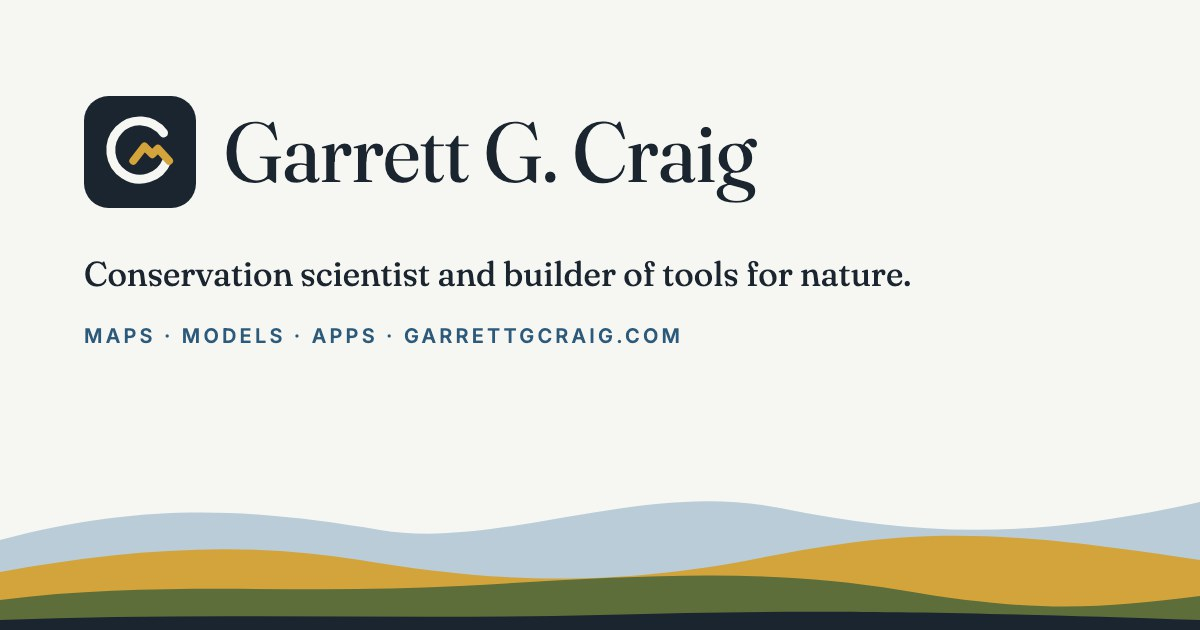
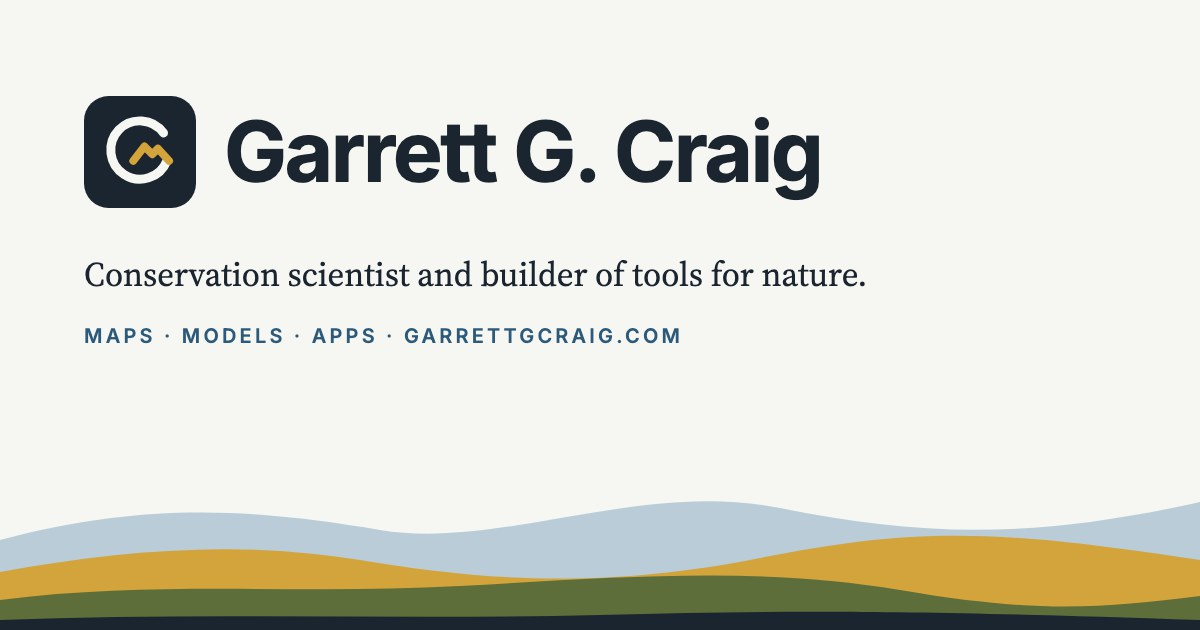
Unlist the brand page and switch to sans headings, serif body
brand.html drops out of the nav and sitemap and is marked noindex.
Headings and UI move to Inter; body text moves to Source Serif 4.
The brand guide and share card follow the new pairing.

Changed region(s): [[0.185, 0.181, 0.7092, 0.3317], [0.0617, 0.3921, 0.7708, 0.4524]]

diff --git a/brand.html b/brand.html
@@ -3,6 +3,7 @@
 <head>
 	<meta charset="utf-8" />
 	<meta name="viewport" content="width=device-width, initial-scale=1" />
+	<meta name="robots" content="noindex, nofollow" />
 		<!-- SEO -->
 		<meta name="description" content="The brand guide for garrettgcraig.com: palette, type, mark, components, chart colors, voice, and photo style." />
 		<link rel="canonical" href="https://garrettgcraig.com/brand" />
@@ -34,14 +35,14 @@
 			-webkit-font-smoothing: antialiased;
 		}
 		a { color: var(--color-link); text-underline-offset: 0.18em; }
-		h1, h2, h3 { font-family: var(--font-display); font-weight: 500; line-height: var(--leading-tight); margin: 0; }
+		h1, h2, h3 { font-family: var(--font-display); font-weight: 600; letter-spacing: -0.02em; line-height: var(--leading-tight); margin: 0; }
 		h2 { font-size: var(--text-h2); margin-bottom: var(--space-4); }
 		h3 { font-size: var(--text-h3); margin-bottom: var(--space-2); }
 		p { margin: 0 0 var(--space-4); max-width: var(--measure); }
 		code, .mono { font-family: var(--font-mono); font-size: 0.85em; }
 
 		.eyebrow {
-			font-family: var(--font-body);
+			font-family: var(--font-ui);
 			font-size: var(--text-eyebrow);
 			font-weight: 600;
 			letter-spacing: var(--tracking-eyebrow);
@@ -69,7 +70,7 @@
 		/* Essence */
 		.words { display: grid; grid-template-columns: repeat(auto-fit, minmax(200px, 1fr)); gap: var(--space-4); margin: var(--space-8) 0; }
 		.word { background: var(--color-raised); border: 1px solid var(--color-border); border-radius: var(--radius-md); padding: var(--space-6); }
-		.word strong { display: block; font-family: var(--font-display); font-size: 1.75rem; font-weight: 400; font-style: italic; margin-bottom: var(--space-2); }
+		.word strong { display: block; font-family: var(--font-body); font-size: 1.75rem; font-weight: 400; font-style: italic; margin-bottom: var(--space-2); }
 		.word span { color: var(--color-muted); font-size: var(--text-small); }
 		.muses li { margin-bottom: var(--space-3); }
 		.muses { padding-left: 1.1em; max-width: var(--measure); }
@@ -78,7 +79,7 @@
 		.swatch { border-radius: var(--radius-md); overflow: hidden; border: 1px solid var(--color-border); background: var(--color-raised); }
 		.swatch .chip { height: 112px; display: flex; align-items: flex-end; padding: var(--space-3); font-family: var(--font-mono); font-size: 0.75rem; }
 		.swatch .info { padding: var(--space-4); font-size: var(--text-small); }
-		.swatch .info strong { font-family: var(--font-display); font-size: 1.15rem; font-weight: 500; display: block; }
+		.swatch .info strong { font-family: var(--font-display); font-size: 1.05rem; font-weight: 600; display: block; }
 		.swatch .info p { margin: var(--space-1) 0 0; color: var(--color-muted); }
 		.chips-row { display: flex; flex-wrap: wrap; gap: var(--space-2); margin-top: var(--space-4); }
 		.mini { flex: 1 1 110px; border-radius: var(--radius-sm); border: 1px solid var(--color-border); overflow: hidden; font-size: 0.75rem; background: var(--color-raised); }
@@ -107,13 +108,13 @@
 		.mark-tile .sizes svg:nth-child(1) { width: 48px; height: 48px; }
 		.mark-tile .sizes svg:nth-child(2) { width: 32px; height: 32px; }
 		.mark-tile .sizes svg:nth-child(3) { width: 16px; height: 16px; }
-		.big-wordmark { display: flex; align-items: center; gap: var(--space-4); font-family: var(--font-display); font-size: clamp(1.6rem, 3vw, 2.4rem); font-weight: 400; }
+		.big-wordmark { display: flex; align-items: center; gap: var(--space-4); font-family: var(--font-display); font-size: clamp(1.6rem, 3vw, 2.4rem); font-weight: 600; letter-spacing: -0.02em; }
 		.big-wordmark svg { width: 64px; height: 64px; flex: none; }
 
 		/* Components */
 		.btn {
 			display: inline-flex; align-items: center; gap: var(--space-2);
-			font-family: var(--font-body); font-size: 0.95rem; font-weight: 600;
+			font-family: var(--font-ui); font-size: 0.95rem; font-weight: 600;
 			padding: 0.7rem 1.25rem; border-radius: var(--radius-pill);
 			border: 1.5px solid transparent; text-decoration: none; cursor: pointer;
 			transition: transform 0.15s ease, background-color 0.15s ease;
@@ -158,7 +159,7 @@
 		.photos figure { margin: 0; }
 		.photos img { width: 100%; aspect-ratio: 4 / 3; object-fit: cover; border-radius: var(--radius-sm); display: block; }
 		.photos figcaption { font-size: var(--text-small); margin-top: var(--space-2); }
-		.photos figcaption em { font-family: var(--font-display); font-style: italic; font-size: 1rem; }
+		.photos figcaption em { font-family: var(--font-body); font-style: italic; font-size: 1rem; }
 
 		footer.page-foot { padding: var(--space-12) 0; border-top: 1px solid var(--color-border); color: var(--color-muted); font-size: var(--text-small); }
 
@@ -173,7 +174,7 @@
 		<!-- NAV -->
 		<nav class="site-nav" aria-label="Site">
 			<a class="site-name" href="index.html"><svg viewBox="0 0 100 100" aria-hidden="true"><rect width="100" height="100" rx="22" fill="#1B2530"/><path d="M71 33 A26 26 0 1 0 74 58" fill="none" stroke="#F6F6F2" stroke-width="8" stroke-linecap="round"/><path d="M44 58 L54 45 L61 52 L66 47 L76 58" fill="none" stroke="#D3A43B" stroke-width="7" stroke-linecap="round" stroke-linejoin="round"/></svg>Garrett G. Craig</a>
-			<ul><li><a href="projects.html">Projects</a></li><li><a href="research.html">Research</a></li><li><a href="trail-log.html">Trail Log</a></li><li><a href="photography.html">Photography</a></li><li><a href="brand.html" aria-current="page">Brand</a></li></ul>
+			<ul><li><a href="projects.html">Projects</a></li><li><a href="research.html">Research</a></li><li><a href="trail-log.html">Trail Log</a></li><li><a href="photography.html">Photography</a></li></ul>
 		</nav>
 		<!-- /NAV -->
 
@@ -299,13 +300,13 @@
 		<!-- Typography -->
 		<section class="block" id="type">
 			<div class="eyebrow">03 · Typography</div>
-			<h2>Fraunces, Inter, JetBrains Mono</h2>
-			<p class="muted">Fraunces brings the soft, old-style warmth; Inter keeps UI and body text clear; JetBrains Mono is for numbers, coordinates, and code.</p>
-			<div class="specimen"><div class="label">Display<br/>Fraunces 400<br/>clamp 2.5–4.5rem</div><div style="font-family:var(--font-display);font-size:var(--text-display);line-height:1.05">Tools for nature</div></div>
-			<div class="specimen"><div class="label">H2<br/>Fraunces 500<br/>1.75–2.5rem</div><div style="font-family:var(--font-display);font-size:var(--text-h2);font-weight:500;line-height:1.15">Mapping who stewards the Amazon</div></div>
-			<div class="specimen"><div class="label">H3<br/>Fraunces 500<br/>1.375rem</div><div style="font-family:var(--font-display);font-size:var(--text-h3);font-weight:500">Field notes from the Big SEKI loop</div></div>
+			<h2>Inter, Source Serif 4, JetBrains Mono</h2>
+			<p class="muted">Inter sets titles, headings, and UI (nav, buttons, tags, labels) in one clear, modern voice. Source Serif 4 carries the reading: body text, captions, and quotes. JetBrains Mono is for numbers, coordinates, and code.</p>
+			<div class="specimen"><div class="label">Display<br/>Inter 700<br/>clamp 2.5–4.5rem</div><div style="font-family:var(--font-display);font-size:var(--text-display);font-weight:700;letter-spacing:-0.03em;line-height:1.05">Tools for nature</div></div>
+			<div class="specimen"><div class="label">H2<br/>Inter 600<br/>1.75–2.5rem</div><div style="font-family:var(--font-display);font-size:var(--text-h2);font-weight:500;line-height:1.15">Mapping who stewards the Amazon</div></div>
+			<div class="specimen"><div class="label">H3<br/>Inter 600<br/>1.375rem</div><div style="font-family:var(--font-display);font-size:var(--text-h3);font-weight:500">Field notes from the Big SEKI loop</div></div>
 			<div class="specimen"><div class="label">Eyebrow<br/>Inter 600, caps<br/>0.75rem, +0.16em</div><div class="eyebrow" style="margin:0">Conservation planning · Geospatial</div></div>
-			<div class="specimen"><div class="label">Body<br/>Inter 400<br/>1.0625rem / 1.65</div><div><p style="margin:0">I build maps, models, and apps that help people see what is living around them and decide what to protect next. Most of my work sits where field ecology meets software.</p></div></div>
+			<div class="specimen"><div class="label">Body<br/>Source Serif 4 400<br/>1.0625rem / 1.65</div><div><p style="margin:0">I build maps, models, and apps that help people see what is living around them and decide what to protect next. Most of my work sits where field ecology meets software.</p></div></div>
 			<div class="specimen"><div class="label">Data<br/>JetBrains Mono 400</div><div class="mono" style="font-size:1rem">36.5785° N, 118.2923° W · 1,284 obs · 12.4 km</div></div>
 		</section>
 
@@ -349,7 +350,7 @@
 			</div>
 			<h3 style="margin-top: var(--space-12)">Wordmark</h3>
 			<div class="big-wordmark"><svg aria-hidden="true"><use href="#mark"/></svg>Garrett G. Craig</div>
-			<p class="muted" style="margin-top: var(--space-4)">Fraunces 400, mark height ≈ 1.6× cap height, gap = ½ mark width. In tight spaces, use the mark alone.</p>
+			<p class="muted" style="margin-top: var(--space-4)">Inter 600, mark height ≈ 1.6× cap height, gap = ½ mark width. In tight spaces, use the mark alone.</p>
 		</section>
 
 		<!-- Components -->
@@ -433,7 +434,7 @@ theme_gc &lt;- theme_minimal(base_family = "Inter") +
   theme(plot.background  = element_rect(fill = "#F6F6F2", color = NA),
         text             = element_text(color = "#1B2530"),
         panel.grid.minor = element_blank(),
-        plot.title = element_text(family = "Fraunces", size = 16))</pre>
+        plot.title = element_text(family = "Inter", face = "bold", size = 16))</pre>
 				</div>
 				<div>
 					<div class="eyebrow" style="color:var(--color-muted)">Python · matplotlib</div>

diff --git a/assets/css/site.css b/assets/css/site.css
@@ -12,9 +12,14 @@ body.dark-mode {
 	color: var(--color-text) !important;
 }
 
-body, input, select, textarea {
+body {
 	font-family: var(--font-body);
 	font-weight: 400;
+	font-size: 1.0625rem;
+}
+
+input, select, textarea, label {
+	font-family: var(--font-ui);
 }
 
 ::selection {
@@ -34,13 +39,14 @@ body.dark-mode #wrapper > .banner h2,
 body.dark-mode #wrapper > .spotlight h2,
 body.dark-mode #wrapper > .wrapper h2 {
 	font-family: var(--font-display);
-	font-weight: 400;
-	letter-spacing: -0.01em;
+	font-weight: 600;
+	letter-spacing: -0.02em;
 	color: var(--color-text) !important;
 }
 
-h3, h4 {
-	font-weight: 500;
+h1 {
+	font-weight: 700;
+	letter-spacing: -0.03em;
 }
 
 strong, b,
@@ -50,7 +56,7 @@ body.dark-mode strong, body.dark-mode b {
 }
 
 h1 strong {
-	font-weight: 400;
+	font-weight: inherit;
 }
 
 p.major {
@@ -60,6 +66,8 @@ p.major {
 #wrapper > .banner p.major {
 	font-family: var(--font-display);
 	font-size: 1.6rem;
+	font-weight: 500;
+	letter-spacing: -0.01em;
 	line-height: 1.3;
 	color: var(--color-text);
 }
@@ -119,20 +127,21 @@ body.dark-mode blockquote {
 	border-left: 3px solid var(--color-highlight) !important;
 	background: var(--color-surface) !important;
 	border-radius: 0 var(--radius-md) var(--radius-md) 0;
-	font-family: var(--font-display);
+	font-family: var(--font-body);
+	font-style: italic;
 	font-size: 1.15rem;
 }
 
 blockquote footer,
 body.dark-mode blockquote footer {
-	font-family: var(--font-body);
+	font-family: var(--font-ui);
 	color: var(--color-muted) !important;
 }
 
 /* Buttons */
 input[type="submit"], input[type="reset"], input[type="button"], button, .button,
 body.dark-mode .button {
-	font-family: var(--font-body);
+	font-family: var(--font-ui);
 	font-weight: 600;
 	letter-spacing: 0;
 	text-transform: none;
@@ -193,7 +202,7 @@ body.dark-mode .project-card .card-tags span,
 span[style*="#e8f5e9"] {
 	background: color-mix(in srgb, var(--color-accent) 12%, transparent) !important;
 	color: var(--color-text) !important;
-	font-family: var(--font-body);
+	font-family: var(--font-ui);
 	font-weight: 500 !important;
 	letter-spacing: 0.02em !important;
 	text-transform: none !important;
@@ -252,7 +261,7 @@ body.dark-mode .inat-widget .inat-footer a:hover {
 
 .inat-label, .inat-meta, .inat-label, .inat-value,
 body.dark-mode .inat-label, body.dark-mode .inat-meta {
-	font-family: var(--font-body) !important;
+	font-family: var(--font-ui) !important;
 	color: var(--color-muted) !important;
 }
 
@@ -287,7 +296,7 @@ body.dark-mode footer .icons a:hover {
 	-webkit-backdrop-filter: blur(10px);
 	backdrop-filter: blur(10px);
 	border-bottom: 1px solid var(--color-border);
-	font-family: var(--font-body);
+	font-family: var(--font-ui);
 }
 
 .site-nav a {
@@ -413,7 +422,7 @@ body.dark-mode .trail-card-tags span {
 }
 
 .leaflet-container {
-	font-family: var(--font-body);
+	font-family: var(--font-ui);
 }
 
 /* Let the hero's three buttons wrap instead of running under the photo. */

diff --git a/assets/css/brand.css b/assets/css/brand.css
@@ -4,7 +4,7 @@
 	.dark-mode on <body>. See brand.html for usage and contrast rules.
 */
 
-@import url("https://fonts.googleapis.com/css2?family=Fraunces:ital,opsz,wght@0,9..144,300..700;1,9..144,400&family=Inter:wght@400;500;600&family=JetBrains+Mono:wght@400;500&display=swap");
+@import url("https://fonts.googleapis.com/css2?family=Inter:ital,wght@0,400..700;1,400..700&family=Source+Serif+4:ital,opsz,wght@0,8..60,400..600;1,8..60,400&family=JetBrains+Mono:wght@400;500&display=swap");
 
 :root {
 	/* Core palette */
@@ -46,8 +46,9 @@
 	--color-highlight: var(--gc-ochre);
 
 	/* Type */
-	--font-display: "Fraunces", Georgia, "Times New Roman", serif;
-	--font-body: "Inter", system-ui, -apple-system, "Segoe UI", sans-serif;
+	--font-display: "Inter", system-ui, -apple-system, "Segoe UI", sans-serif;
+	--font-body: "Source Serif 4", Georgia, "Times New Roman", serif;
+	--font-ui: "Inter", system-ui, -apple-system, "Segoe UI", sans-serif;
 	--font-mono: "JetBrains Mono", ui-monospace, "SF Mono", Menlo, monospace;
 
 	--text-display: clamp(2.5rem, 5vw + 1rem, 4.5rem);

diff --git a/photography-flora.html b/photography-flora.html
@@ -44,7 +44,7 @@
 		<!-- NAV -->
 		<nav class="site-nav" aria-label="Site">
 			<a class="site-name" href="index.html"><svg viewBox="0 0 100 100" aria-hidden="true"><rect width="100" height="100" rx="22" fill="#1B2530"/><path d="M71 33 A26 26 0 1 0 74 58" fill="none" stroke="#F6F6F2" stroke-width="8" stroke-linecap="round"/><path d="M44 58 L54 45 L61 52 L66 47 L76 58" fill="none" stroke="#D3A43B" stroke-width="7" stroke-linecap="round" stroke-linejoin="round"/></svg>Garrett G. Craig</a>
-			<ul><li><a href="projects.html">Projects</a></li><li><a href="research.html">Research</a></li><li><a href="trail-log.html">Trail Log</a></li><li><a href="photography.html" aria-current="page">Photography</a></li><li><a href="brand.html">Brand</a></li></ul>
+			<ul><li><a href="projects.html">Projects</a></li><li><a href="research.html">Research</a></li><li><a href="trail-log.html">Trail Log</a></li><li><a href="photography.html" aria-current="page">Photography</a></li></ul>
 		</nav>
 		<!-- /NAV -->
 

diff --git a/photography-landscapes.html b/photography-landscapes.html
@@ -44,7 +44,7 @@
 		<!-- NAV -->
 		<nav class="site-nav" aria-label="Site">
 			<a class="site-name" href="index.html"><svg viewBox="0 0 100 100" aria-hidden="true"><rect width="100" height="100" rx="22" fill="#1B2530"/><path d="M71 33 A26 26 0 1 0 74 58" fill="none" stroke="#F6F6F2" stroke-width="8" stroke-linecap="round"/><path d="M44 58 L54 45 L61 52 L66 47 L76 58" fill="none" stroke="#D3A43B" stroke-width="7" stroke-linecap="round" stroke-linejoin="round"/></svg>Garrett G. Craig</a>
-			<ul><li><a href="projects.html">Projects</a></li><li><a href="research.html">Research</a></li><li><a href="trail-log.html">Trail Log</a></li><li><a href="photography.html" aria-current="page">Photography</a></li><li><a href="brand.html">Brand</a></li></ul>
+			<ul><li><a href="projects.html">Projects</a></li><li><a href="research.html">Research</a></li><li><a href="trail-log.html">Trail Log</a></li><li><a href="photography.html" aria-current="page">Photography</a></li></ul>
 		</nav>
 		<!-- /NAV -->
 

diff --git a/photography-macro.html b/photography-macro.html
@@ -44,7 +44,7 @@
 		<!-- NAV -->
 		<nav class="site-nav" aria-label="Site">
 			<a class="site-name" href="index.html"><svg viewBox="0 0 100 100" aria-hidden="true"><rect width="100" height="100" rx="22" fill="#1B2530"/><path d="M71 33 A26 26 0 1 0 74 58" fill="none" stroke="#F6F6F2" stroke-width="8" stroke-linecap="round"/><path d="M44 58 L54 45 L61 52 L66 47 L76 58" fill="none" stroke="#D3A43B" stroke-width="7" stroke-linecap="round" stroke-linejoin="round"/></svg>Garrett G. Craig</a>
-			<ul><li><a href="projects.html">Projects</a></li><li><a href="research.html">Research</a></li><li><a href="trail-log.html">Trail Log</a></li><li><a href="photography.html" aria-current="page">Photography</a></li><li><a href="brand.html">Brand</a></li></ul>
+			<ul><li><a href="projects.html">Projects</a></li><li><a href="research.html">Research</a></li><li><a href="trail-log.html">Trail Log</a></li><li><a href="photography.html" aria-current="page">Photography</a></li></ul>
 		</nav>
 		<!-- /NAV -->
 

diff --git a/photography-wildlife.html b/photography-wildlife.html
@@ -44,7 +44,7 @@
 		<!-- NAV -->
 		<nav class="site-nav" aria-label="Site">
 			<a class="site-name" href="index.html"><svg viewBox="0 0 100 100" aria-hidden="true"><rect width="100" height="100" rx="22" fill="#1B2530"/><path d="M71 33 A26 26 0 1 0 74 58" fill="none" stroke="#F6F6F2" stroke-width="8" stroke-linecap="round"/><path d="M44 58 L54 45 L61 52 L66 47 L76 58" fill="none" stroke="#D3A43B" stroke-width="7" stroke-linecap="round" stroke-linejoin="round"/></svg>Garrett G. Craig</a>
-			<ul><li><a href="projects.html">Projects</a></li><li><a href="research.html">Research</a></li><li><a href="trail-log.html">Trail Log</a></li><li><a href="photography.html" aria-current="page">Photography</a></li><li><a href="brand.html">Brand</a></li></ul>
+			<ul><li><a href="projects.html">Projects</a></li><li><a href="research.html">Research</a></li><li><a href="trail-log.html">Trail Log</a></li><li><a href="photography.html" aria-current="page">Photography</a></li></ul>
 		</nav>
 		<!-- /NAV -->
 

diff --git a/photography.html b/photography.html
@@ -49,7 +49,7 @@
 		<!-- NAV -->
 		<nav class="site-nav" aria-label="Site">
 			<a class="site-name" href="index.html"><svg viewBox="0 0 100 100" aria-hidden="true"><rect width="100" height="100" rx="22" fill="#1B2530"/><path d="M71 33 A26 26 0 1 0 74 58" fill="none" stroke="#F6F6F2" stroke-width="8" stroke-linecap="round"/><path d="M44 58 L54 45 L61 52 L66 47 L76 58" fill="none" stroke="#D3A43B" stroke-width="7" stroke-linecap="round" stroke-linejoin="round"/></svg>Garrett G. Craig</a>
-			<ul><li><a href="projects.html">Projects</a></li><li><a href="research.html">Research</a></li><li><a href="trail-log.html">Trail Log</a></li><li><a href="photography.html" aria-current="page">Photography</a></li><li><a href="brand.html">Brand</a></li></ul>
+			<ul><li><a href="projects.html">Projects</a></li><li><a href="research.html">Research</a></li><li><a href="trail-log.html">Trail Log</a></li><li><a href="photography.html" aria-current="page">Photography</a></li></ul>
 		</nav>
 		<!-- /NAV -->
 

diff --git a/project-amazon-climate.html b/project-amazon-climate.html
@@ -72,7 +72,7 @@
 		<!-- NAV -->
 		<nav class="site-nav" aria-label="Site">
 			<a class="site-name" href="index.html"><svg viewBox="0 0 100 100" aria-hidden="true"><rect width="100" height="100" rx="22" fill="#1B2530"/><path d="M71 33 A26 26 0 1 0 74 58" fill="none" stroke="#F6F6F2" stroke-width="8" stroke-linecap="round"/><path d="M44 58 L54 45 L61 52 L66 47 L76 58" fill="none" stroke="#D3A43B" stroke-width="7" stroke-linecap="round" stroke-linejoin="round"/></svg>Garrett G. Craig</a>
-			<ul><li><a href="projects.html">Projects</a></li><li><a href="research.html" aria-current="page">Research</a></li><li><a href="trail-log.html">Trail Log</a></li><li><a href="photography.html">Photography</a></li><li><a href="brand.html">Brand</a></li></ul>
+			<ul><li><a href="projects.html">Projects</a></li><li><a href="research.html" aria-current="page">Research</a></li><li><a href="trail-log.html">Trail Log</a></li><li><a href="photography.html">Photography</a></li></ul>
 		</nav>
 		<!-- /NAV -->
 

diff --git a/project-fossorial.html b/project-fossorial.html
@@ -52,7 +52,7 @@
 		<!-- NAV -->
 		<nav class="site-nav" aria-label="Site">
 			<a class="site-name" href="index.html"><svg viewBox="0 0 100 100" aria-hidden="true"><rect width="100" height="100" rx="22" fill="#1B2530"/><path d="M71 33 A26 26 0 1 0 74 58" fill="none" stroke="#F6F6F2" stroke-width="8" stroke-linecap="round"/><path d="M44 58 L54 45 L61 52 L66 47 L76 58" fill="none" stroke="#D3A43B" stroke-width="7" stroke-linecap="round" stroke-linejoin="round"/></svg>Garrett G. Craig</a>
-			<ul><li><a href="projects.html">Projects</a></li><li><a href="research.html" aria-current="page">Research</a></li><li><a href="trail-log.html">Trail Log</a></li><li><a href="photography.html">Photography</a></li><li><a href="brand.html">Brand</a></li></ul>
+			<ul><li><a href="projects.html">Projects</a></li><li><a href="research.html" aria-current="page">Research</a></li><li><a href="trail-log.html">Trail Log</a></li><li><a href="photography.html">Photography</a></li></ul>
 		</nav>
 		<!-- /NAV -->
 

diff --git a/project-ghg-etrm.html b/project-ghg-etrm.html
@@ -52,7 +52,7 @@
 		<!-- NAV -->
 		<nav class="site-nav" aria-label="Site">
 			<a class="site-name" href="index.html"><svg viewBox="0 0 100 100" aria-hidden="true"><rect width="100" height="100" rx="22" fill="#1B2530"/><path d="M71 33 A26 26 0 1 0 74 58" fill="none" stroke="#F6F6F2" stroke-width="8" stroke-linecap="round"/><path d="M44 58 L54 45 L61 52 L66 47 L76 58" fill="none" stroke="#D3A43B" stroke-width="7" stroke-linecap="round" stroke-linejoin="round"/></svg>Garrett G. Craig</a>
-			<ul><li><a href="projects.html">Projects</a></li><li><a href="research.html" aria-current="page">Research</a></li><li><a href="trail-log.html">Trail Log</a></li><li><a href="photography.html">Photography</a></li><li><a href="brand.html">Brand</a></li></ul>
+			<ul><li><a href="projects.html">Projects</a></li><li><a href="research.html" aria-current="page">Research</a></li><li><a href="trail-log.html">Trail Log</a></li><li><a href="photography.html">Photography</a></li></ul>
 		</nav>
 		<!-- /NAV -->
 

diff --git a/project-herpetofauna.html b/project-herpetofauna.html
@@ -52,7 +52,7 @@
 		<!-- NAV -->
 		<nav class="site-nav" aria-label="Site">
 			<a class="site-name" href="index.html"><svg viewBox="0 0 100 100" aria-hidden="true"><rect width="100" height="100" rx="22" fill="#1B2530"/><path d="M71 33 A26 26 0 1 0 74 58" fill="none" stroke="#F6F6F2" stroke-width="8" stroke-linecap="round"/><path d="M44 58 L54 45 L61 52 L66 47 L76 58" fill="none" stroke="#D3A43B" stroke-width="7" stroke-linecap="round" stroke-linejoin="round"/></svg>Garrett G. Craig</a>
-			<ul><li><a href="projects.html">Projects</a></li><li><a href="research.html" aria-current="page">Research</a></li><li><a href="trail-log.html">Trail Log</a></li><li><a href="photography.html">Photography</a></li><li><a href="brand.html">Brand</a></li></ul>
+			<ul><li><a href="projects.html">Projects</a></li><li><a href="research.html" aria-current="page">Research</a></li><li><a href="trail-log.html">Trail Log</a></li><li><a href="photography.html">Photography</a></li></ul>
 		</nav>
 		<!-- /NAV -->
 
